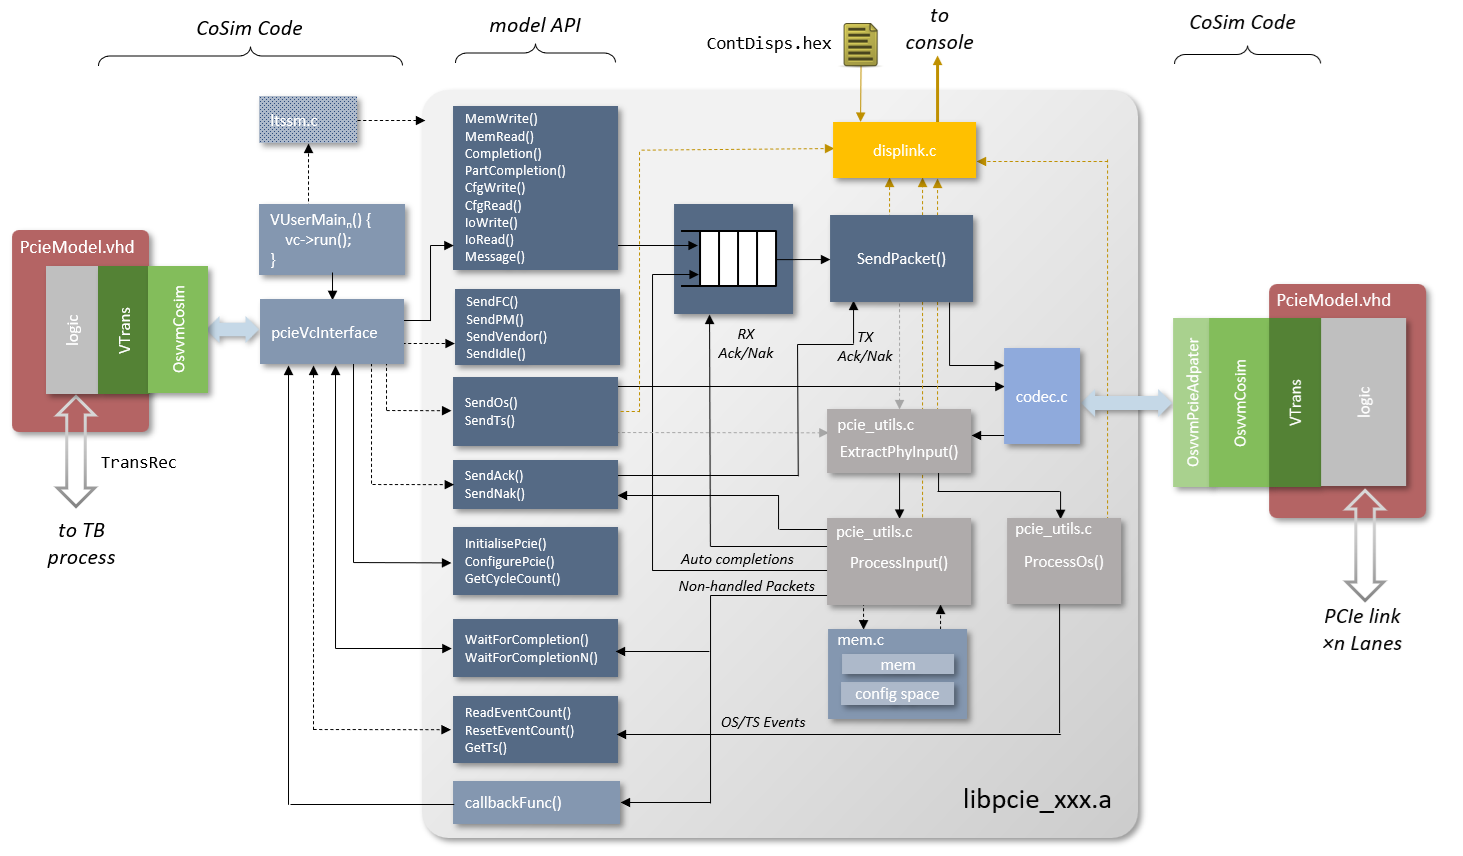
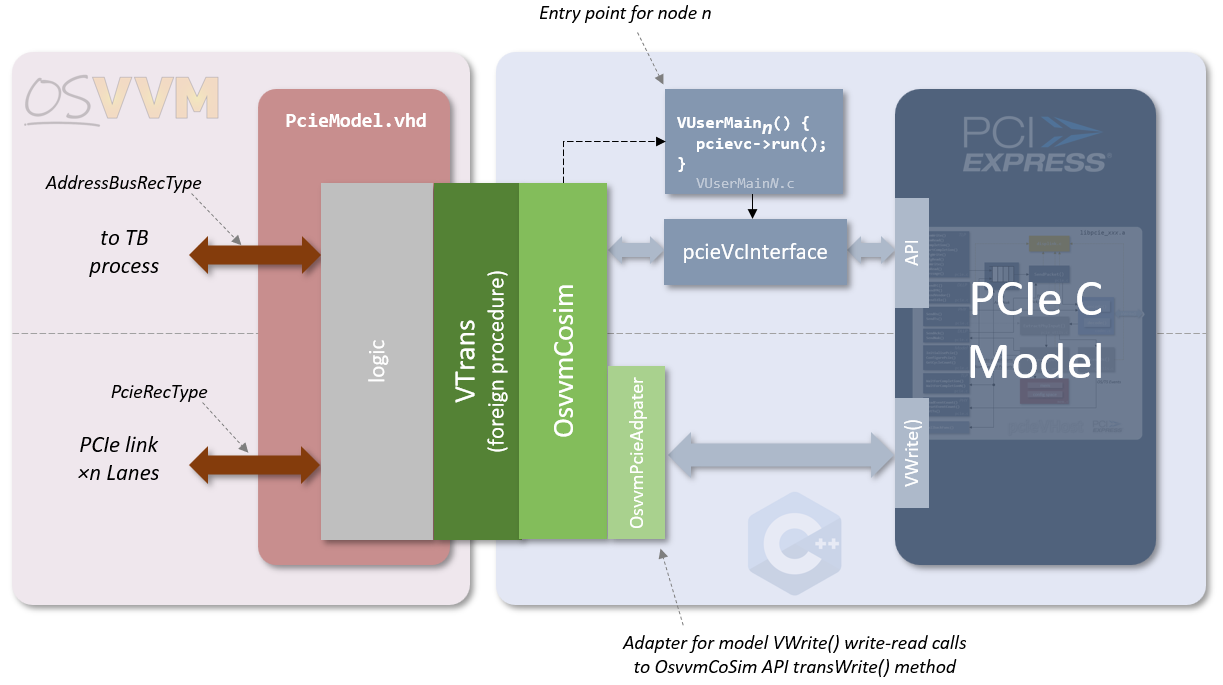
CHANGELOG.md and header updates for release number

diff --git a/CHANGELOG.md b/CHANGELOG.md
@@ -2,11 +2,11 @@
 
 | Revision  |  Release Summary | 
 ------------|----------- 
-| ????.??   | PCIe VC extended to drive DLLP and PHY traffic from MIT |
+| 2026.07   | PCIe VC extended to drive DLLP and PHY traffic from MIT |
 | 2026.05   | Added test bench using 3rd party PCIe EP
 | 2026.01   | Initial release
 
-## ????.?? June 2026
+## 2026.07 June 2026
 - The PCIe VC now supports MIT commands to drive and receive DLL packets and PHY OS/TS traffic
 - New PCIe procedures for DLL/PHY traffic
 - Added new tests to verify and demonstrate the DLL and PHY features